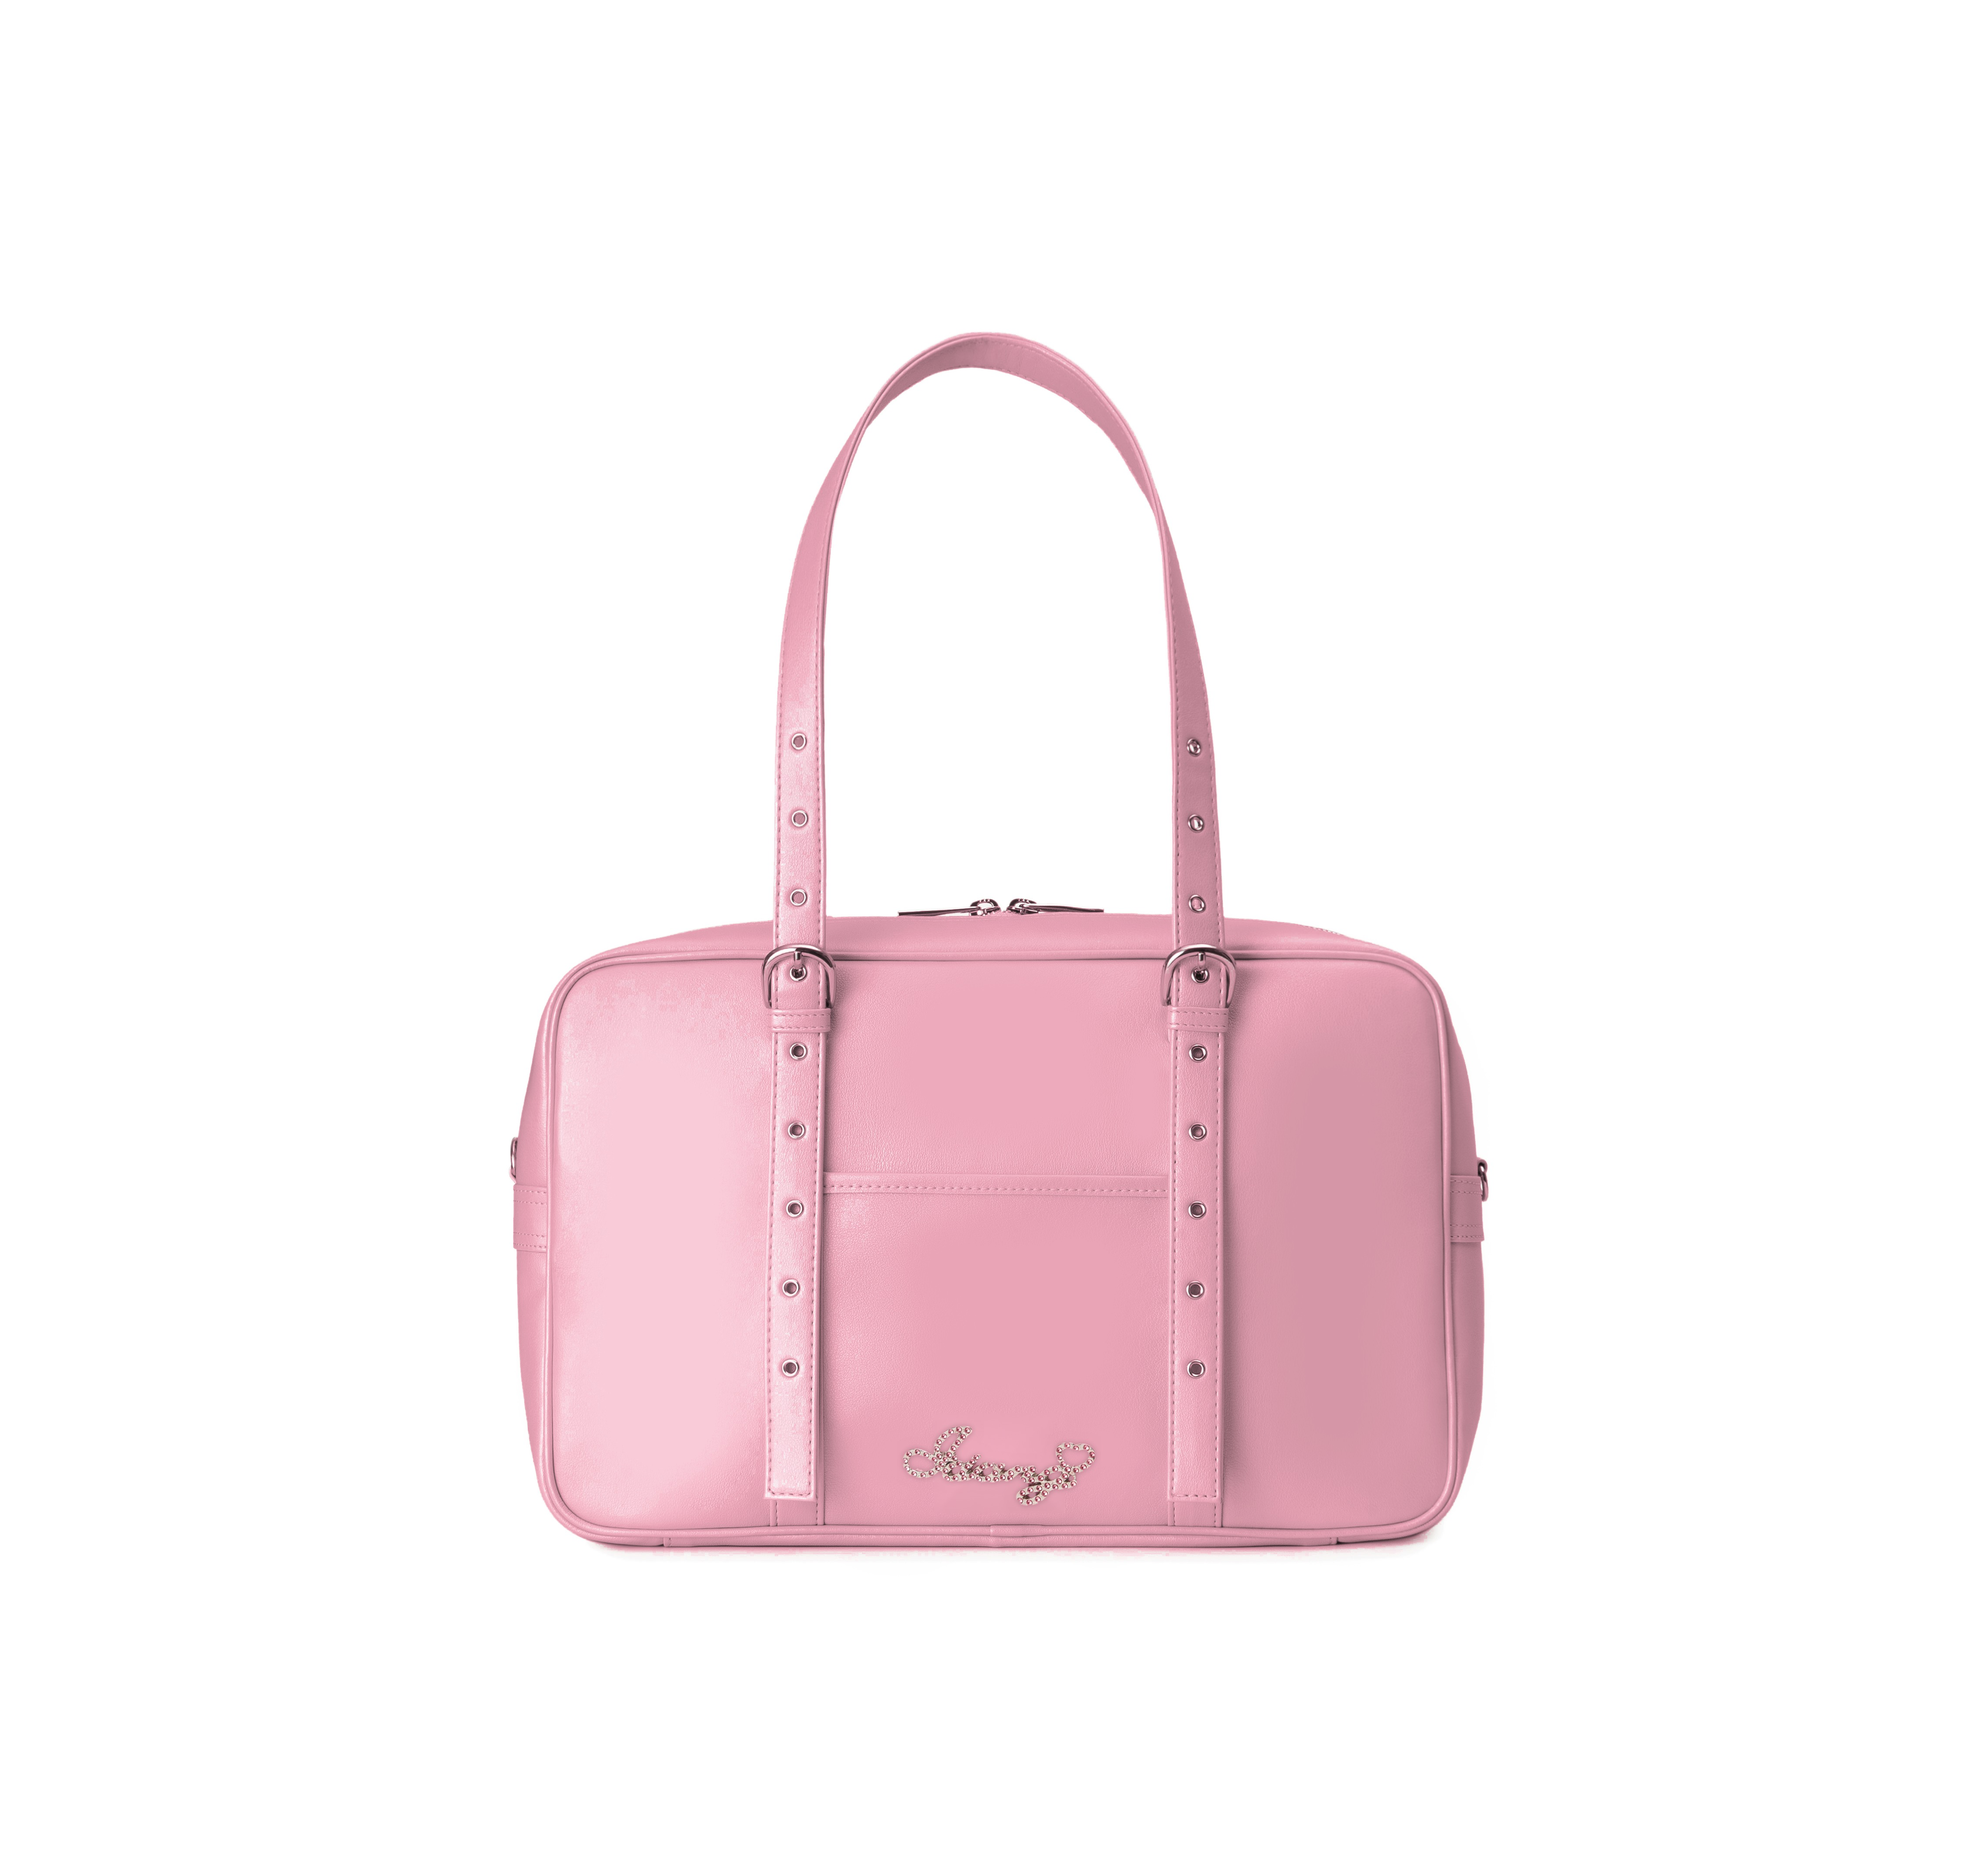
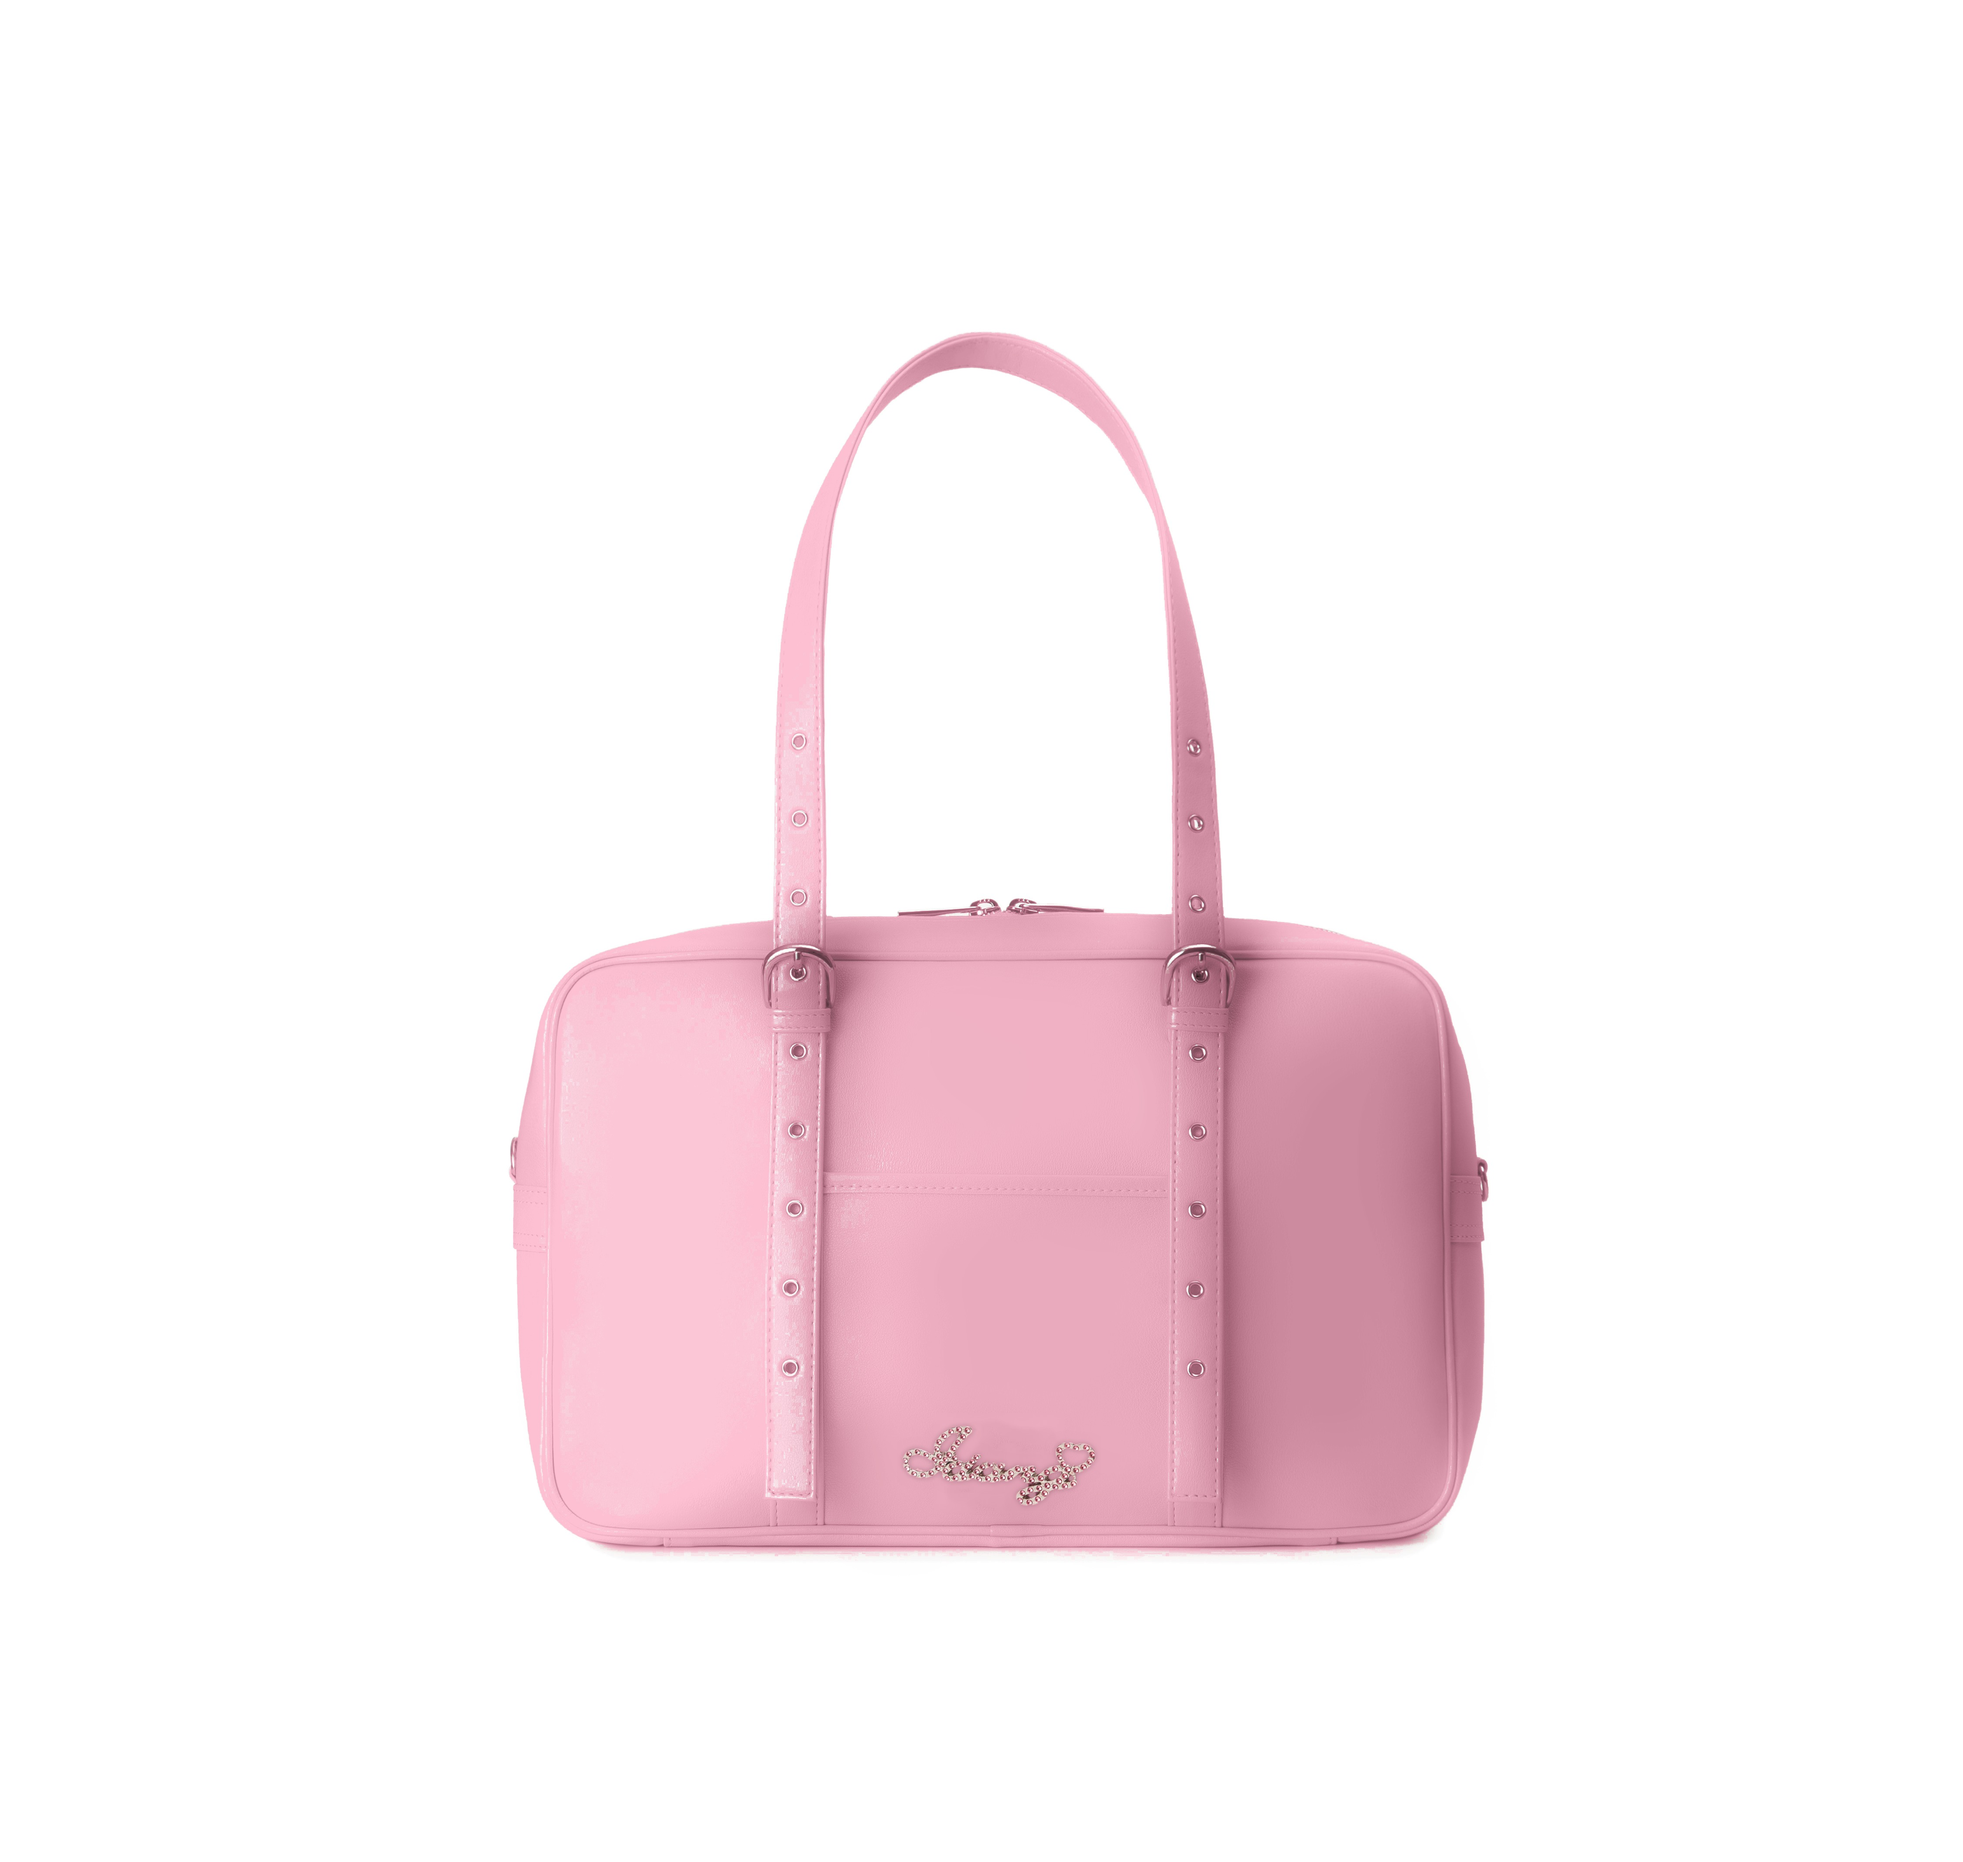
School medium hot pink: color matched to mini close-up
Claude-Session: https://claude.ai/code/session_01SGbhM19EQUL9sFqgDRFGKZ

diff --git a/product/logo.py b/product/logo.py
@@ -1,0 +1,53 @@
+# 미니 핫핑크 클로즈업에서 선명한 큐빅 로고를 따서 붙이는 공용 함수
+from PIL import Image
+import numpy as np, cv2
+SRC = np.array(Image.open('/mnt/user-data/uploads/Downloads/idang_mini_hp_logo.png').convert('RGB')).astype(np.float32)
+X0, X1, Y0, Y1 = 430, 1110, 400, 700          # 로고 + 여백
+
+def logo_patch():
+    S = SRC[Y0:Y1, X0:X1].copy()
+    g = cv2.GaussianBlur(S, (0, 0), 25)                     # 가죽의 은은한 명암
+    sat = S[..., 0] - S[..., 1]                             # 핑크 가죽은 R-G 가 큼, 금속은 작음
+    body_sat = np.median(sat)
+    metal = (sat < body_sat * 0.55).astype(np.uint8)
+    diff = (np.linalg.norm(S - g, axis=-1) > 30).astype(np.uint8)
+    m = metal * 255
+    m = cv2.morphologyEx(m, cv2.MORPH_OPEN, np.ones((3, 3), np.uint8))
+    m = cv2.morphologyEx(m, cv2.MORPH_CLOSE, cv2.getStructuringElement(cv2.MORPH_ELLIPSE, (15, 15)))
+    # 큰 덩어리만 (로고), 노이즈 제거
+    n, lab, st, _ = cv2.connectedComponentsWithStats(m)
+    keep = np.zeros_like(m)
+    for i in range(1, n):
+        if st[i, cv2.CC_STAT_AREA] > 400: keep[lab == i] = 255
+    # 구멍 메우기 (큐빅이 금속 테두리 안에 있음)
+    keep = cv2.erode(keep, np.ones((2, 2), np.uint8))
+    a = cv2.GaussianBlur(keep.astype(np.float32) / 255, (0, 0), 1.6)
+    return S, a, g
+
+def paste(out, cx, cy, width, rot=0.0):
+    S, a, g = logo_patch()
+    ys, xs = np.where(a > 0.5)
+    x0, x1, y0, y1 = xs.min(), xs.max(), ys.min(), ys.max()
+    pad = 20
+    S = S[y0 - pad:y1 + pad, x0 - pad:x1 + pad]; a = a[y0 - pad:y1 + pad, x0 - pad:x1 + pad]; g = g[y0 - pad:y1 + pad, x0 - pad:x1 + pad]
+    sc = width / (x1 - x0)
+    W, H = int(S.shape[1] * sc), int(S.shape[0] * sc)
+    S = cv2.resize(S, (W, H), interpolation=cv2.INTER_AREA)
+    a = cv2.resize(a, (W, H), interpolation=cv2.INTER_AREA)
+    g = cv2.resize(g, (W, H), interpolation=cv2.INTER_AREA)
+    if rot:
+        M = cv2.getRotationMatrix2D((W / 2, H / 2), rot, 1)
+        S = cv2.warpAffine(S, M, (W, H), borderMode=cv2.BORDER_REPLICATE)
+        a = cv2.warpAffine(a, M, (W, H)); g = cv2.warpAffine(g, M, (W, H), borderMode=cv2.BORDER_REPLICATE)
+    px0, py0 = cx - W // 2, cy - H // 2
+    reg = out[py0:py0 + H, px0:px0 + W]
+    # 그림자: 원본 클로즈업에서 로고 주변이 가죽보다 어두운 정도를 그대로 옮김
+    sh = np.clip(1 - (cv2.GaussianBlur(a, (0, 0), 6 * sc + 2) - a).clip(0) * 0.25, 0.85, 1)[..., None]
+    reg = reg * sh
+    # 금속 톤을 대상 사진 밝기에 맞추기
+    tb = np.median(out[py0:py0 + H, px0:px0 + W].reshape(-1, 3), 0)
+    sb = np.median(g.reshape(-1, 3), 0)
+    k = (0.299 * tb[0] + 0.587 * tb[1] + 0.114 * tb[2]) / (0.299 * sb[0] + 0.587 * sb[1] + 0.114 * sb[2])
+    S = np.clip(S * (0.5 + 0.5 * k), 0, 255)
+    out[py0:py0 + H, px0:px0 + W] = reg * (1 - a[..., None]) + S * a[..., None]
+    return out

diff --git a/product/make.py b/product/make.py
@@ -1,0 +1,40 @@
+# 스쿨백 미디움 핫핑크 합성 이미지: 미디움(펄핑크) 누끼 색을 미니 핫핑크로 바꾸고, 로고를 미니의 큐빅 로고로 교체
+from PIL import Image
+import numpy as np, cv2
+
+A = np.array(Image.open('/mnt/user-data/uploads/Downloads/idang_med_pearl.png').convert('RGBA')).astype(np.float32)
+B = np.array(Image.open('/mnt/user-data/uploads/Downloads/idang_mini_hotpink.jpg').convert('RGB')).astype(np.float32)
+rgb, al = A[..., :3], A[..., 3]
+
+ref = np.array([231, 218, 221], np.float32)   # 미디움 펄핑크 몸판
+tgt = np.array([233, 164, 182], np.float32)   # 미니 핫핑크 몸판
+lum = lambda x: 0.299 * x[..., 0] + 0.587 * x[..., 1] + 0.114 * x[..., 2]
+m = np.clip((rgb[..., 0] - rgb[..., 1] - 3) / 7, 0, 1) * (al > 0)
+import recolor
+out = recolor.recolor(rgb, m)
+
+# 기존 금속 로고 지우기
+x0, x1, y0, y1 = 2140, 2440, 3240, 3470
+box = out[y0:y1, x0:x1]
+body = np.median(box.reshape(-1, 3), axis=0)
+lm = (np.linalg.norm(box - body, axis=-1) > 14).astype(np.uint8) * 255
+lm = cv2.dilate(lm, np.ones((31, 31), np.uint8))
+full = np.zeros(out.shape[:2], np.uint8)
+full[y0:y1, x0:x1] = lm
+img8 = np.clip(out, 0, 255).astype(np.uint8)
+inp = cv2.inpaint(cv2.cvtColor(img8, cv2.COLOR_RGB2BGR), full, 15, cv2.INPAINT_TELEA)
+out = cv2.cvtColor(inp, cv2.COLOR_BGR2RGB).astype(np.float32)
+
+# 미니 핫핑크 클로즈업의 선명한 큐빅 로고
+import logo
+out = logo.paste(out, 2290, 3360, 440)
+
+res = np.dstack([np.clip(out, 0, 255), al]).astype(np.uint8)
+im = Image.fromarray(res, 'RGBA')
+im.save('school_medium_hotpink.png')
+bg = Image.new('RGB', im.size, 'white')
+bg.paste(im, mask=im.split()[3])
+bg.save('school_medium_hotpink.jpg', quality=92)
+bg.resize((900, 854)).save('prev.jpg')
+bg.crop((1900, 3000, 2700, 3600)).save('prev_logo.jpg')
+print('ok')

diff --git a/product/make2.py b/product/make2.py
@@ -1,0 +1,32 @@
+# 스쿨백 미디움 핫핑크 — 측면(사선) 누끼: 펄핑크 → 핫핑크 + 미니 큐빅 로고 합성
+from PIL import Image
+import numpy as np, cv2, sys
+A = np.array(Image.open('/mnt/user-data/uploads/Downloads/idang_med_angle.png').convert('RGB')).astype(np.float32)
+B = np.array(Image.open('/mnt/user-data/uploads/Downloads/idang_mini_hotpink.jpg').convert('RGB')).astype(np.float32)
+sc = float(sys.argv[1]) if len(sys.argv) > 1 else 0.72
+ref = np.array([240, 226, 232], np.float32)
+tgt = np.array([233, 164, 182], np.float32) * (240/231)   # 앞면과 같은 밝기 비율로
+lum = lambda x: 0.299*x[...,0] + 0.587*x[...,1] + 0.114*x[...,2]
+m = np.clip((A[...,0]-A[...,1]-3)/7, 0, 1)
+import recolor
+out = recolor.recolor(A, m)
+# 기존 금속 로고 지우기
+x0,x1,y0,y1 = 1490,1735,3045,3260
+box = out[y0:y1,x0:x1]; body = np.median(box.reshape(-1,3),0)
+L = lum(A[y0:y1,x0:x1]).astype(np.uint8)
+bl = cv2.medianBlur(L, 61).astype(np.float32)
+lm = (((np.abs(L.astype(np.float32)-bl) > 7) | (m[y0:y1,x0:x1] < 0.6))).astype(np.uint8)*255
+lm = cv2.morphologyEx(lm, cv2.MORPH_OPEN, np.ones((3,3),np.uint8))
+lm = cv2.dilate(lm, np.ones((13,13),np.uint8))
+full = np.zeros(out.shape[:2],np.uint8); full[y0:y1,x0:x1] = lm
+img8 = np.clip(out,0,255).astype(np.uint8)
+out = cv2.cvtColor(cv2.inpaint(cv2.cvtColor(img8,cv2.COLOR_RGB2BGR), full, 15, cv2.INPAINT_TELEA), cv2.COLOR_BGR2RGB).astype(np.float32)
+# 미니 핫핑크 클로즈업의 선명한 큐빅 로고
+import logo
+out = logo.paste(out, 1612, 3160, 285)
+
+o = Image.fromarray(np.clip(out,0,255).astype(np.uint8))
+o.save('school_medium_hotpink_angle.jpg', quality=92)
+o.resize((o.width*600//o.height,600)).save('prev2.jpg')
+o.crop((1350,2950,1900,3350)).save('prev2_logo.jpg')
+print('ok')

diff --git a/product/recolor.py b/product/recolor.py
@@ -1,0 +1,19 @@
+# 펄핑크 가죽을 첨부 클로즈업(미니 핫핑크) 색감으로: 색상·채도·밝기 분포를 그대로 맞추고, 펄 특유의 얼룩 광택은 줄임
+import numpy as np, cv2
+REF_H, REF_S, REF_V, REF_V10 = 171, 69, 233, 200
+
+def recolor(rgb, m):
+    img = np.clip(rgb, 0, 255).astype(np.uint8)
+    hsv = cv2.cvtColor(img, cv2.COLOR_RGB2HSV).astype(np.float32)
+    V = hsv[..., 2]
+    sig = max(img.shape[:2]) / 70
+    low = cv2.GaussianBlur(V, (0, 0), sig)
+    det = V - low
+    sel = m > 0.8
+    med, p10 = np.median(low[sel]), np.percentile(low[sel], 10)
+    k = (REF_V - REF_V10) / max(med - p10, 1)
+    Vo = np.clip(REF_V + (low - med) * k + det * 0.55, 0, 252)
+    So = np.clip(REF_S + (REF_V - Vo) * 0.45, 55, 100)
+    out = np.dstack([np.full_like(V, REF_H), So, Vo]).astype(np.uint8)
+    out = cv2.cvtColor(out, cv2.COLOR_HSV2RGB).astype(np.float32)
+    return rgb * (1 - m[..., None]) + out * m[..., None]
